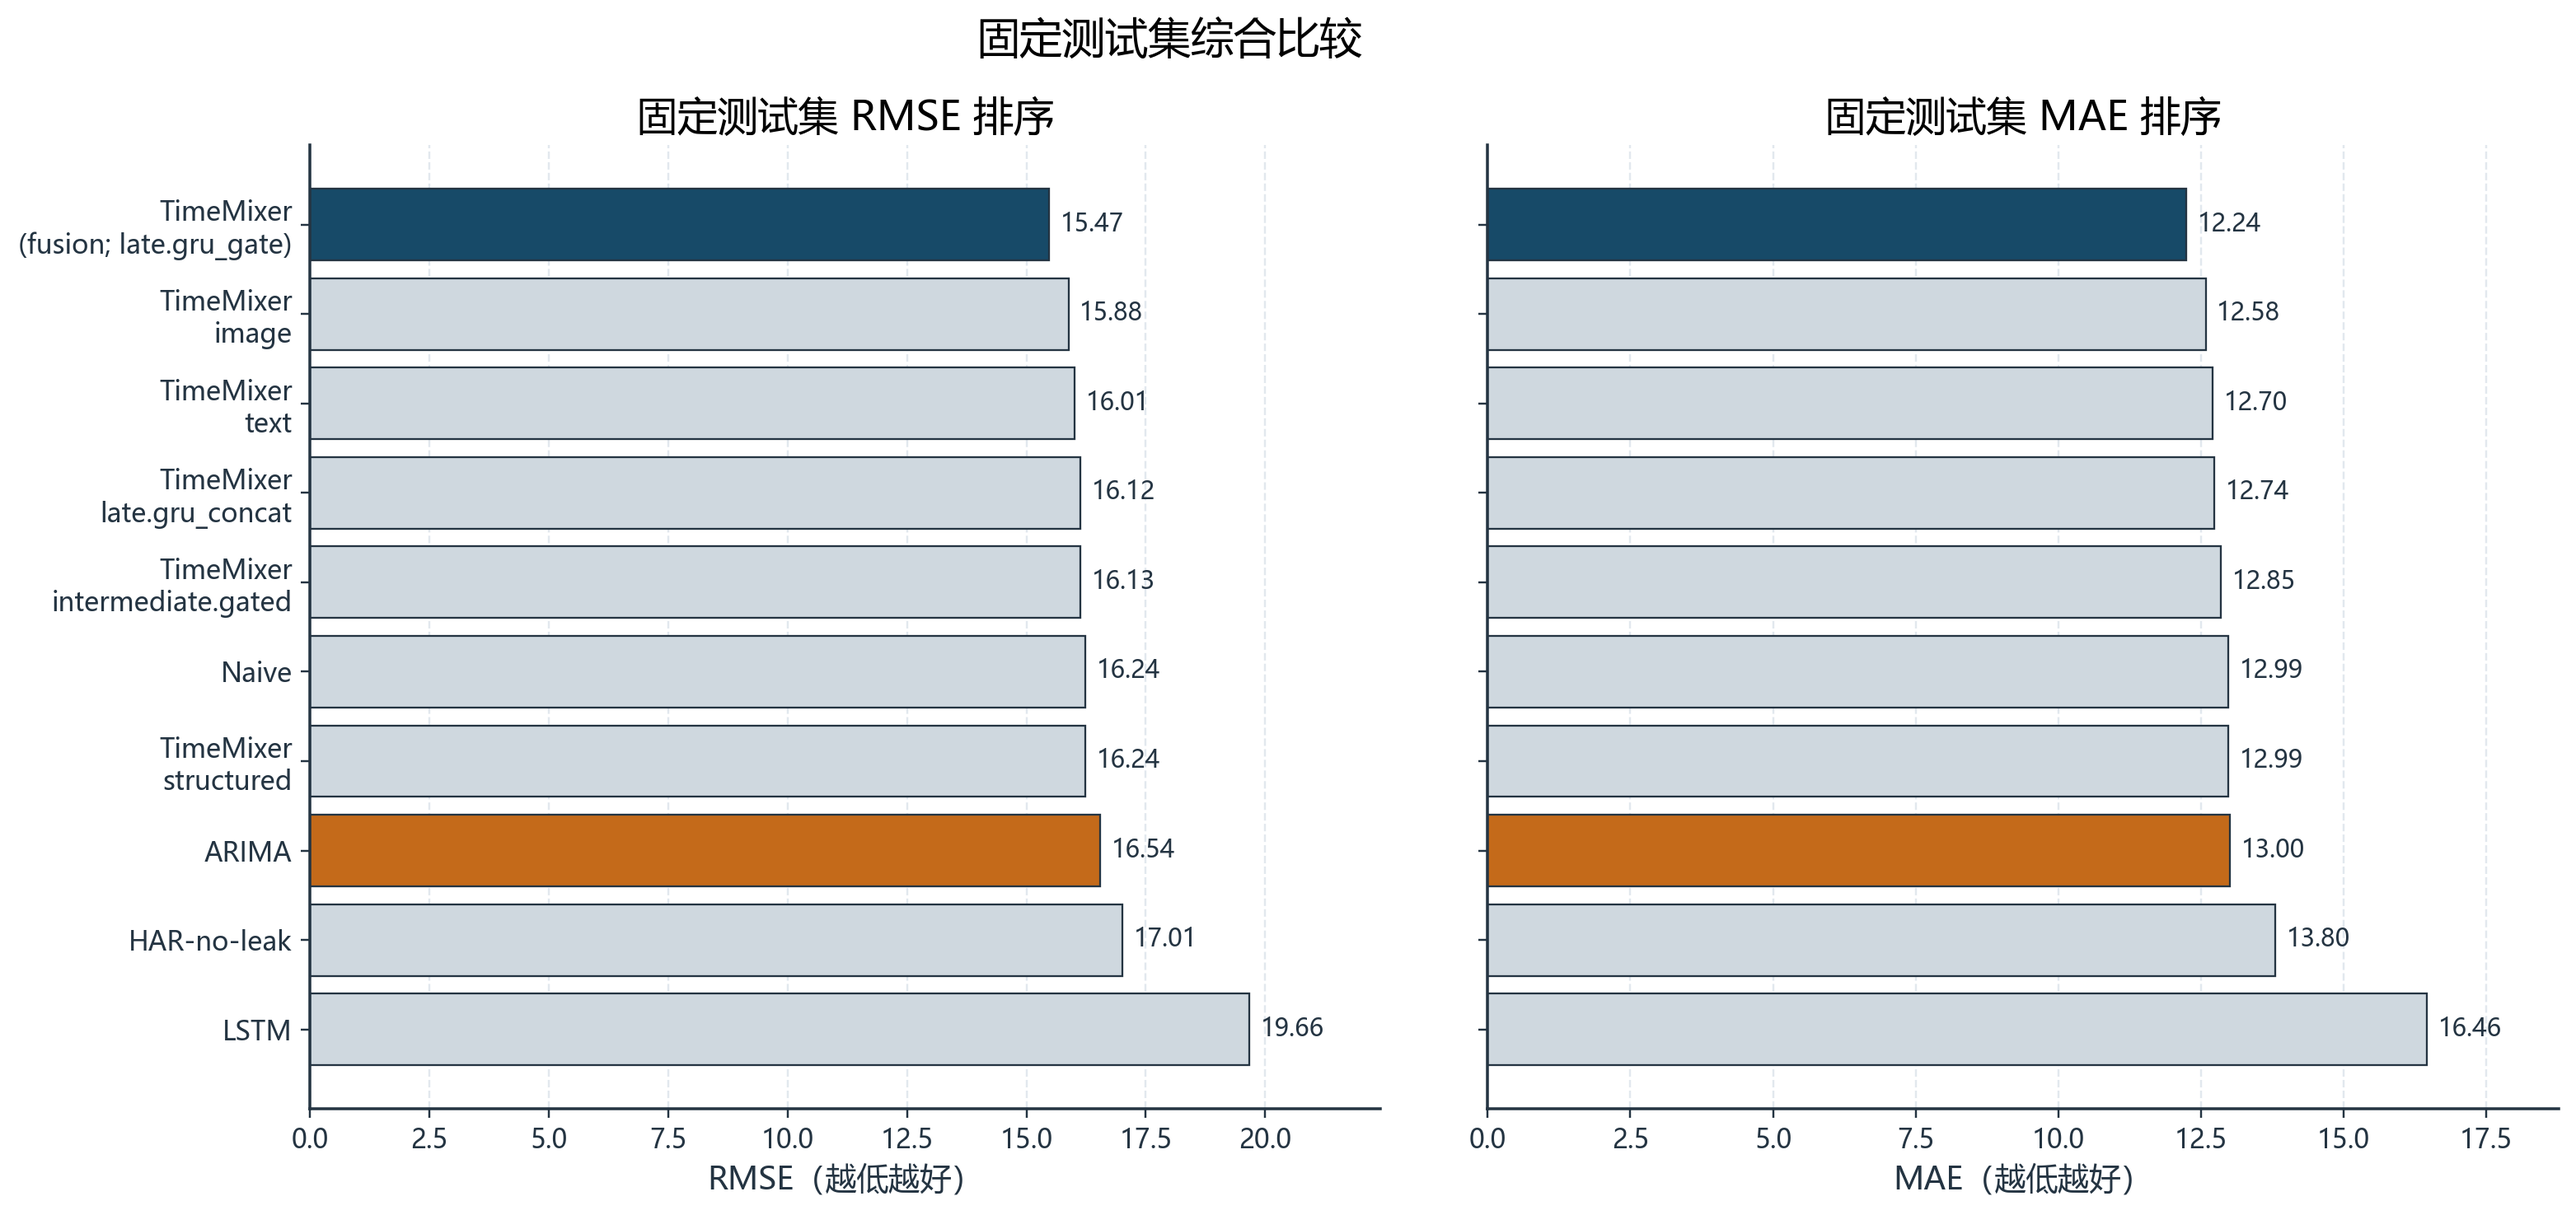
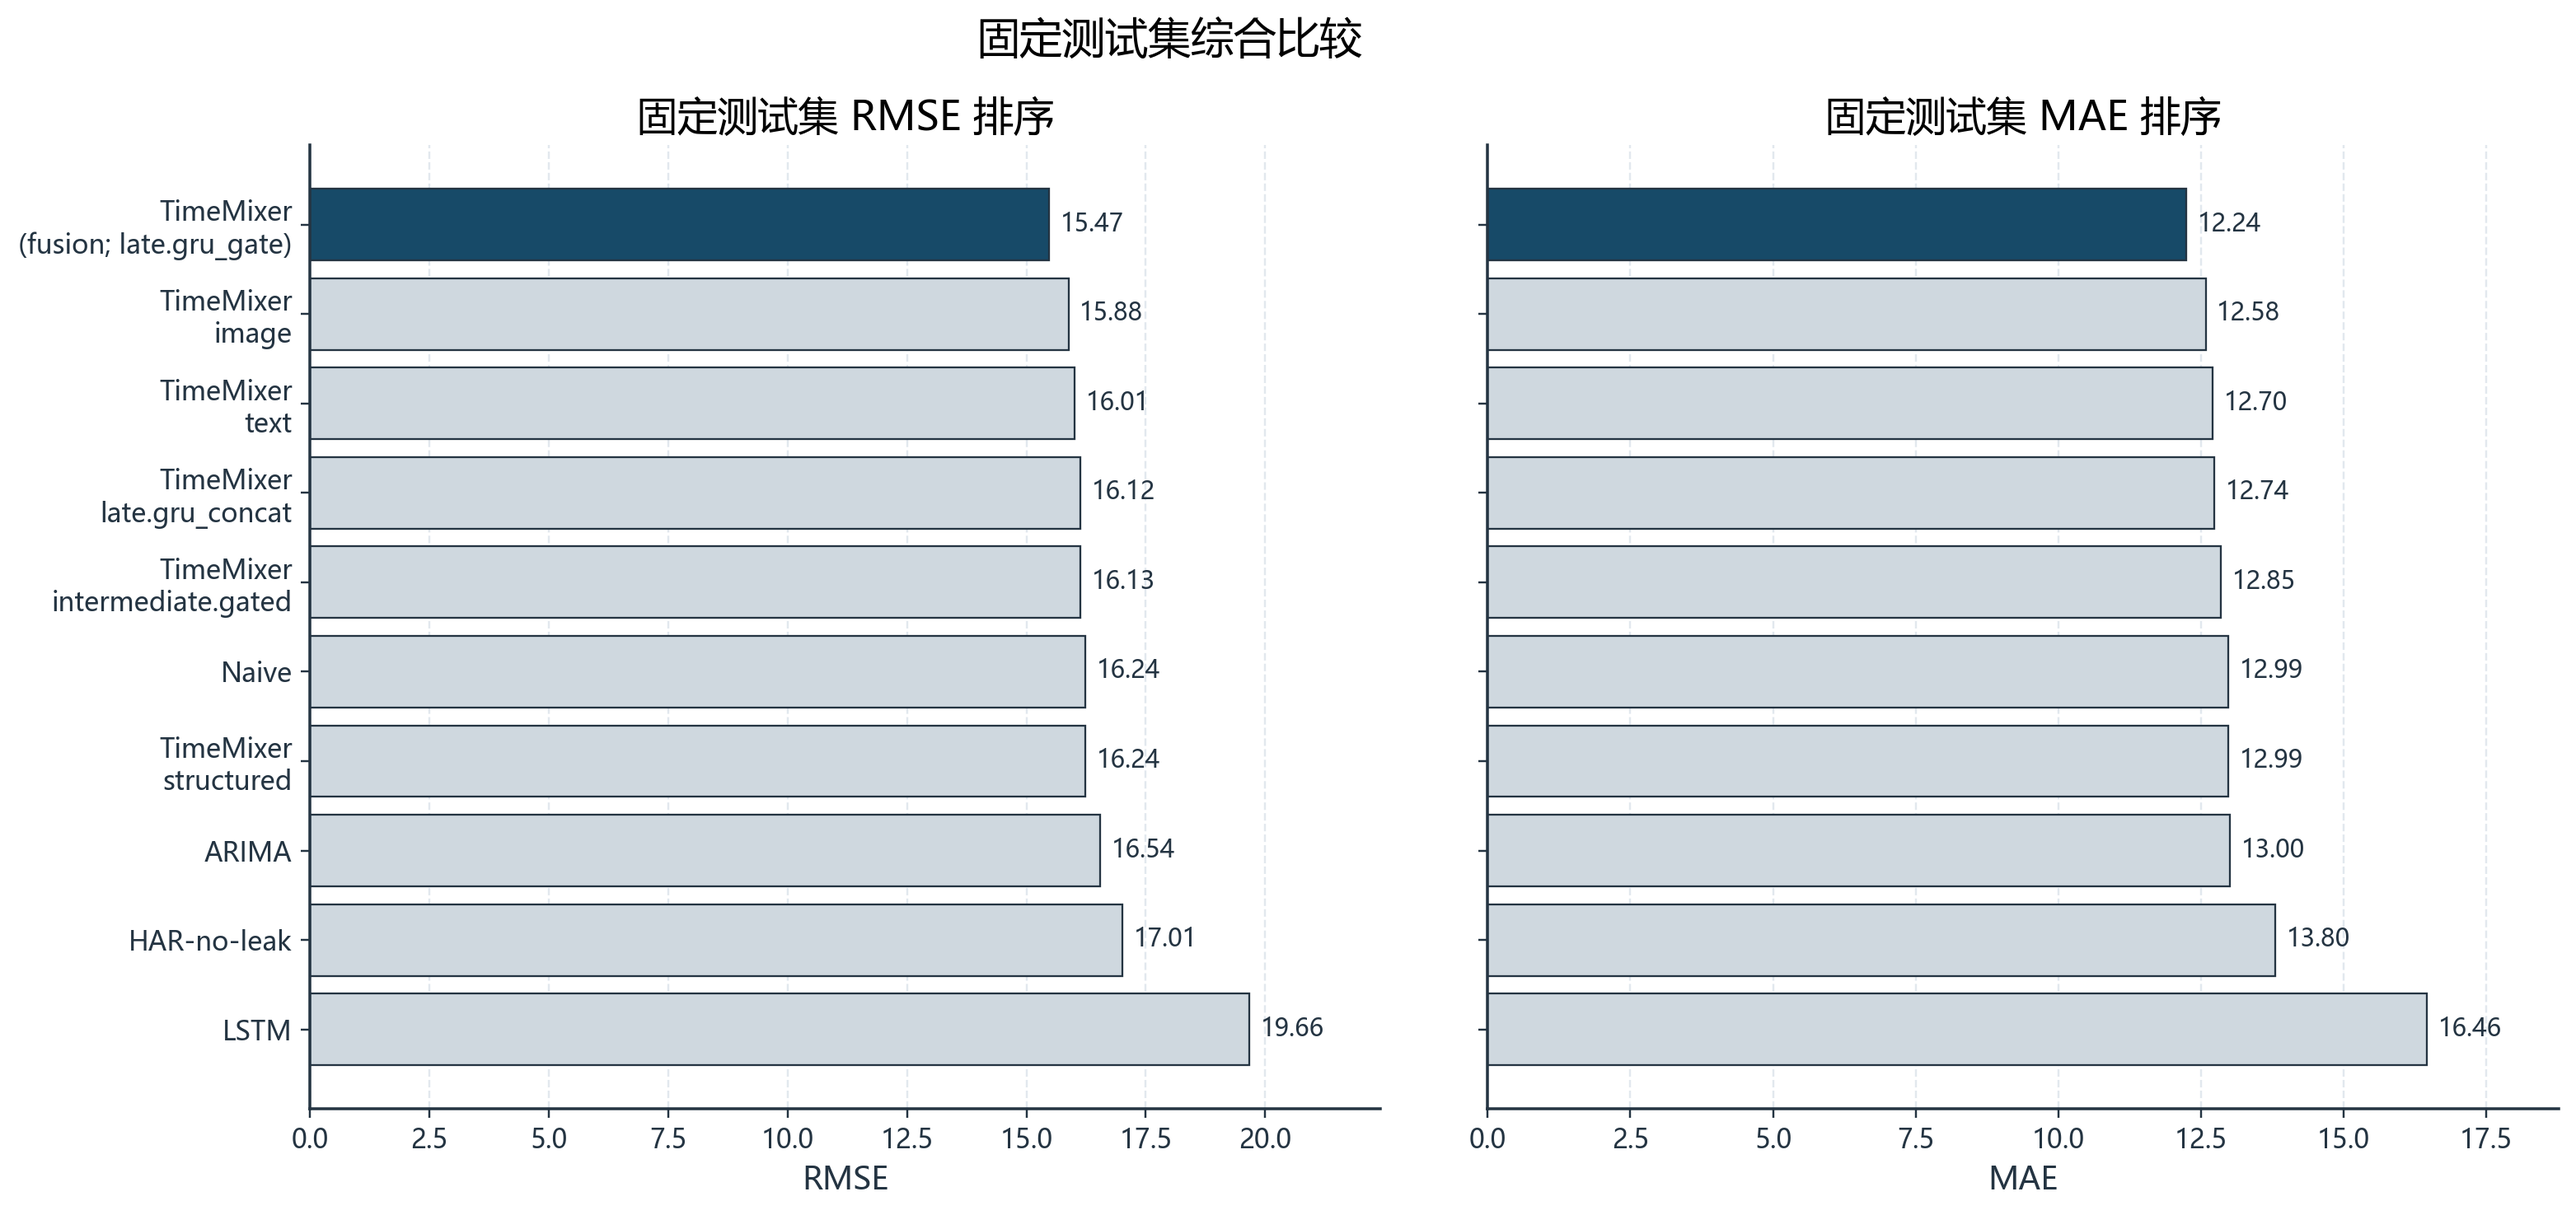
完善可视化

diff --git a/5_statistical_analysis/scripts/plot_evaluation_figures.py b/5_statistical_analysis/scripts/plot_evaluation_figures.py
@@ -49,8 +49,6 @@ def require_columns(frame: pd.DataFrame, columns: list[str], source: Path) -> No
 def model_color(run_id: str, model: str | None = None) -> str:
     if str(run_id) == MAINLINE_RUN_ID or str(model) == MAINLINE_LABEL:
         return MAIN_COLOR
-    if str(run_id) == "ARIMA" or str(model) == ARIMA_LABEL:
-        return ARIMA_COLOR
     return NEUTRAL_COLOR
 
 
@@ -91,7 +89,7 @@ def plot_fixed_test_overview() -> None:
 
     configure_evaluation_style()
     fig, axes = plt.subplots(1, 2, figsize=(15.8, 7.0), sharey=True, gridspec_kw={"wspace": 0.10})
-    metrics = [("test_rmse_mean", "RMSE（越低越好）"), ("test_mae_mean", "MAE（越低越好）")]
+    metrics = [("test_rmse_mean", "RMSE"), ("test_mae_mean", "MAE")]
     for ax, (column, xlabel) in zip(axes, metrics):
         ax.barh(y, frame[column], color=colors, edgecolor=PALETTE["line"], linewidth=0.75)
         ax.set_yticks(y)
@@ -121,25 +119,24 @@ def plot_rolling_overview_scatter() -> None:
     for _, row in frame.iterrows():
         color = model_color(row["run_id"], row["model"])
         is_mainline = row["run_id"] == MAINLINE_RUN_ID
-        is_arima = row["run_id"] == "ARIMA"
         ax.scatter(
             row["rolling_score"],
             row["direction_pct"],
-            s=145 if is_mainline else 105 if is_arima else 70,
+            s=145 if is_mainline else 70,
             color=color,
             edgecolor=PALETTE["line"],
             linewidth=0.85,
-            alpha=0.95 if (is_mainline or is_arima) else 0.60,
-            zorder=4 if (is_mainline or is_arima) else 2,
+            alpha=0.95 if is_mainline else 0.60,
+            zorder=4 if is_mainline else 2,
         )
 
-    labels_to_show = {MAINLINE_RUN_ID, "ARIMA", "Naive", "HAR-no-leak", "LSTM"}
+    labels_to_show = {MAINLINE_RUN_ID}
     for _, row in frame[frame["run_id"].isin(labels_to_show)].iterrows():
         dx = 0.035
-        dy = 1.0 if row["run_id"] in {MAINLINE_RUN_ID, "ARIMA"} else 0.55
+        dy = 1.0
         ax.text(row["rolling_score"] + dx, row["direction_pct"] + dy, short_model_label(row).replace("\n", " "), fontsize=9.5, color=PALETTE["line"])
 
-    ax.set_xlabel("Rolling score（越低越好）")
+    ax.set_xlabel("Rolling score")
     ax.set_ylabel("方向准确率（%）")
     ax.set_title("Rolling 综合比较")
     ax.set_xlim(float(frame["rolling_score"].min()) - 0.15, float(frame["rolling_score"].max()) + 0.40)
@@ -167,7 +164,7 @@ def plot_dual_panel_bars(frame: pd.DataFrame, labels: list[str], title: str, pat
 
     configure_evaluation_style()
     fig, axes = plt.subplots(1, 2, figsize=(13.8, 5.8), sharey=True, gridspec_kw={"wspace": 0.08})
-    panels = [("test_rmse_mean", "固定测试集 RMSE（越低越好）"), ("rolling_score", "Rolling score（越低越好）")]
+    panels = [("test_rmse_mean", "固定测试集 RMSE"), ("rolling_score", "Rolling score")]
     for ax, (column, xlabel) in zip(axes, panels):
         ax.barh(y, frame[column], color=colors, edgecolor=PALETTE["line"], linewidth=0.75)
         ax.set_yticks(y)
@@ -178,7 +175,7 @@ def plot_dual_panel_bars(frame: pd.DataFrame, labels: list[str], title: str, pat
         style_axis(ax)
     axes[0].invert_yaxis()
     axes[0].set_title("固定测试集")
-    axes[1].set_title("Rolling 稳健性")
+    axes[1].set_title("Rolling 结果")
     fig.suptitle(title, fontsize=16.5, y=0.98)
     fig.subplots_adjust(left=0.18, right=0.985, top=0.84, bottom=0.14, wspace=0.12)
     save_figure(fig, path, dpi=220)
@@ -194,7 +191,7 @@ def plot_multimodal_gain_comparison() -> None:
     plot_dual_panel_bars(
         frame,
         labels,
-        "单模态与多模态增益",
+        "单模态与融合模型比较",
         FIGURE_DIR / "multimodal_gain_comparison.png",
         highlight_run_ids={MAINLINE_RUN_ID},
     )
@@ -206,7 +203,7 @@ def plot_fusion_strategy_comparison() -> None:
     frame = combined[combined["run_id"].isin(order)].copy()
     frame["order"] = frame["run_id"].map({run_id: idx for idx, run_id in enumerate(order)})
     frame = frame.sort_values("order").reset_index(drop=True)
-    labels = ["late.gru_gate\n主线", "late.gru_concat", "intermediate.gated"]
+    labels = ["late.gru_gate", "late.gru_concat", "intermediate.gated"]
     plot_dual_panel_bars(
         frame,
         labels,
@@ -227,13 +224,13 @@ def plot_high_volatility_performance() -> None:
     regime_order = ["normal_or_low_volatility", "high_volatility"]
     regime_labels = {"normal_or_low_volatility": "常态/低波动", "high_volatility": "高风险阶段"}
     model_order = [MAINLINE_LABEL, ARIMA_LABEL]
-    model_labels = {MAINLINE_LABEL: "TimeMixer\n主线", ARIMA_LABEL: "ARIMA"}
+    model_labels = {MAINLINE_LABEL: "TimeMixer\n(fusion; late.gru_gate)", ARIMA_LABEL: "ARIMA"}
     bar_width = 0.34
     x = np.arange(len(model_order))
 
     configure_evaluation_style()
     fig, axes = plt.subplots(1, 2, figsize=(13.6, 5.8), gridspec_kw={"wspace": 0.20})
-    metric_info = [("rmse", "RMSE（越低越好）"), ("direction_acc", "方向准确率（%）")]
+    metric_info = [("rmse", "RMSE"), ("direction_acc", "方向准确率（%）")]
     for ax, (metric, ylabel) in zip(axes, metric_info):
         for offset_idx, regime in enumerate(regime_order):
             subset = frame[frame["regime"].eq(regime)].set_index("model").reindex(model_order)
@@ -250,7 +247,7 @@ def plot_high_volatility_performance() -> None:
         ax.set_xticks(x)
         ax.set_xticklabels([model_labels[model] for model in model_order])
         ax.set_ylabel(ylabel)
-        ax.set_title("高风险阶段更突出" if metric == "rmse" else "方向判断能力")
+        ax.set_title("RMSE" if metric == "rmse" else "方向准确率")
         ax.set_ylim(0, max(float(frame[metric].max() * (100.0 if metric == "direction_acc" else 1.0)) * 1.25, 1.0))
         style_axis(ax, xgrid=False, ygrid=True)
     axes[0].legend(frameon=False, loc="upper left")
@@ -273,18 +270,8 @@ def plot_mainline_fold_stability() -> None:
     ax2 = ax1.twinx()
     ax1.plot(frame["fold"], frame["rmse"], marker="o", linewidth=2.6, markersize=7.5, color=MAIN_COLOR, label="RMSE")
     ax2.plot(frame["fold"], frame["direction_acc"] * 100.0, marker="s", linewidth=2.2, markersize=6.8, color=ARIMA_COLOR, label="方向准确率")
-    ax1.axvspan(5.75, 6.25, color=PALETTE["red"], alpha=0.08)
-    fold6 = frame[frame["fold"].eq(6)].iloc[0]
-    ax1.annotate(
-        "第 6 折显著变难",
-        xy=(6, fold6["rmse"]),
-        xytext=(4.55, fold6["rmse"] * 0.86),
-        arrowprops={"arrowstyle": "->", "color": PALETTE["line"], "lw": 1.1},
-        fontsize=11,
-        color=PALETTE["line"],
-    )
     ax1.set_xlabel("Rolling 折次")
-    ax1.set_ylabel("RMSE（越低越好）", color=MAIN_COLOR)
+    ax1.set_ylabel("RMSE", color=MAIN_COLOR)
     ax2.set_ylabel("方向准确率（%）", color=ARIMA_COLOR)
     ax1.set_xticks(frame["fold"])
     ax1.set_ylim(0, float(frame["rmse"].max()) * 1.18)
@@ -295,7 +282,7 @@ def plot_mainline_fold_stability() -> None:
     ax2.spines["top"].set_visible(False)
     lines = ax1.get_lines() + ax2.get_lines()
     ax1.legend(lines, [line.get_label() for line in lines], frameon=False, loc="upper left")
-    ax1.set_title("主线折次稳定性")
+    ax1.set_title("TimeMixer (fusion; late.gru_gate) 折次结果")
     fig.tight_layout()
     save_figure(fig, FIGURE_DIR / "mainline_fold_stability.png", dpi=220)
 

diff --git a/5_statistical_analysis/scripts/plot_extended_analysis_figures.py b/5_statistical_analysis/scripts/plot_extended_analysis_figures.py
@@ -296,7 +296,7 @@ def main() -> None:
     plot_event_response_heatmap()
     plot_model_metric_3d_scatter()
     plot_lag_correlation_3d_surface()
-    print(f"Extended paper figures refreshed in {FIGURE_DIR}")
+    print(f"Extended analysis figures refreshed in {FIGURE_DIR}")
 
 
 if __name__ == "__main__":

diff --git a/5_statistical_analysis/README.md b/5_statistical_analysis/README.md
@@ -11,7 +11,7 @@ Main roles:
 Run the scripts in this order:
 
 ```powershell
-python 5_statistical_analysis/scripts/build_chapter3_analysis_data.py
+python 5_statistical_analysis/scripts/build_analysis_datasets.py
 python 5_statistical_analysis/scripts/run_descriptive_stats.py
 python 5_statistical_analysis/scripts/run_stationarity_tests.py
 python 5_statistical_analysis/scripts/run_correlation_analysis.py
